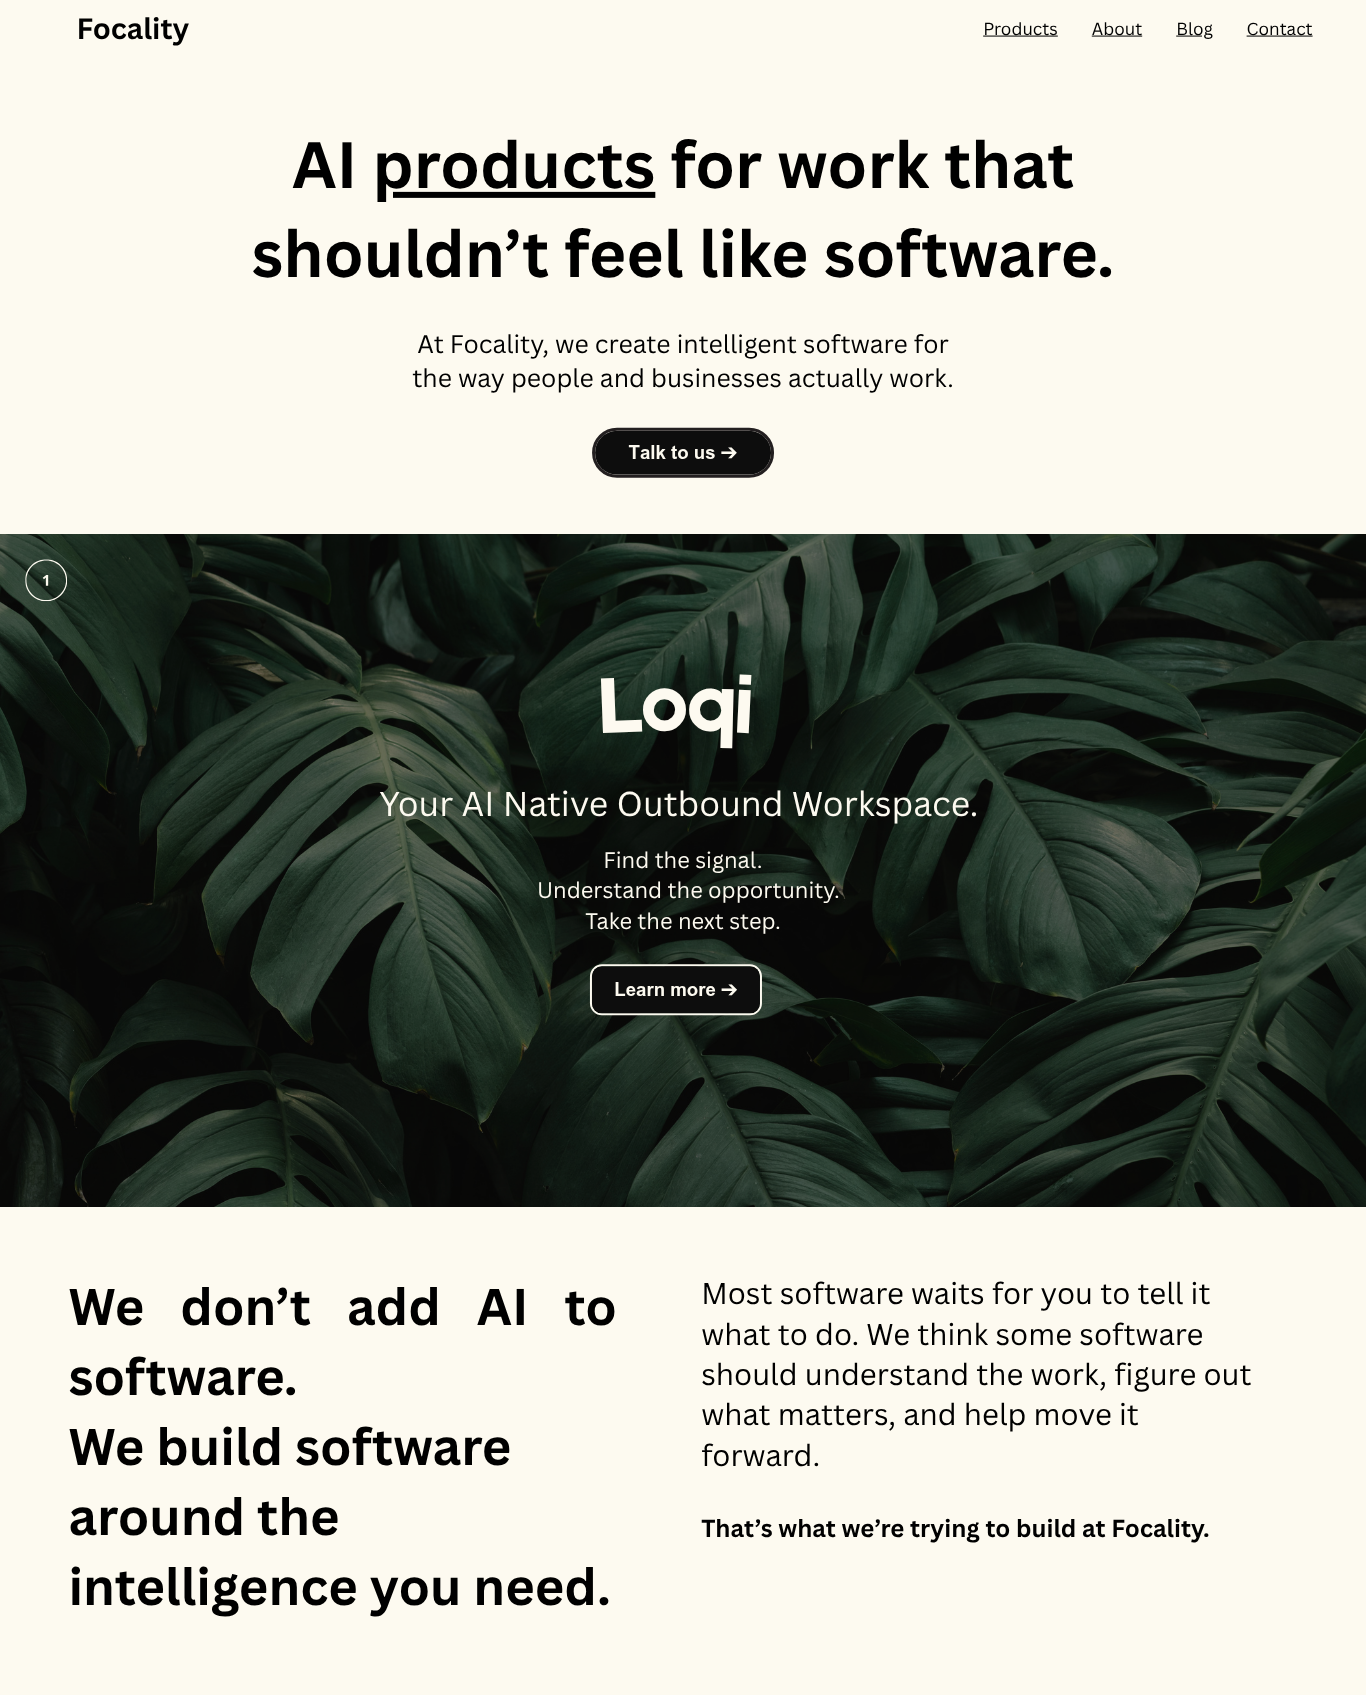
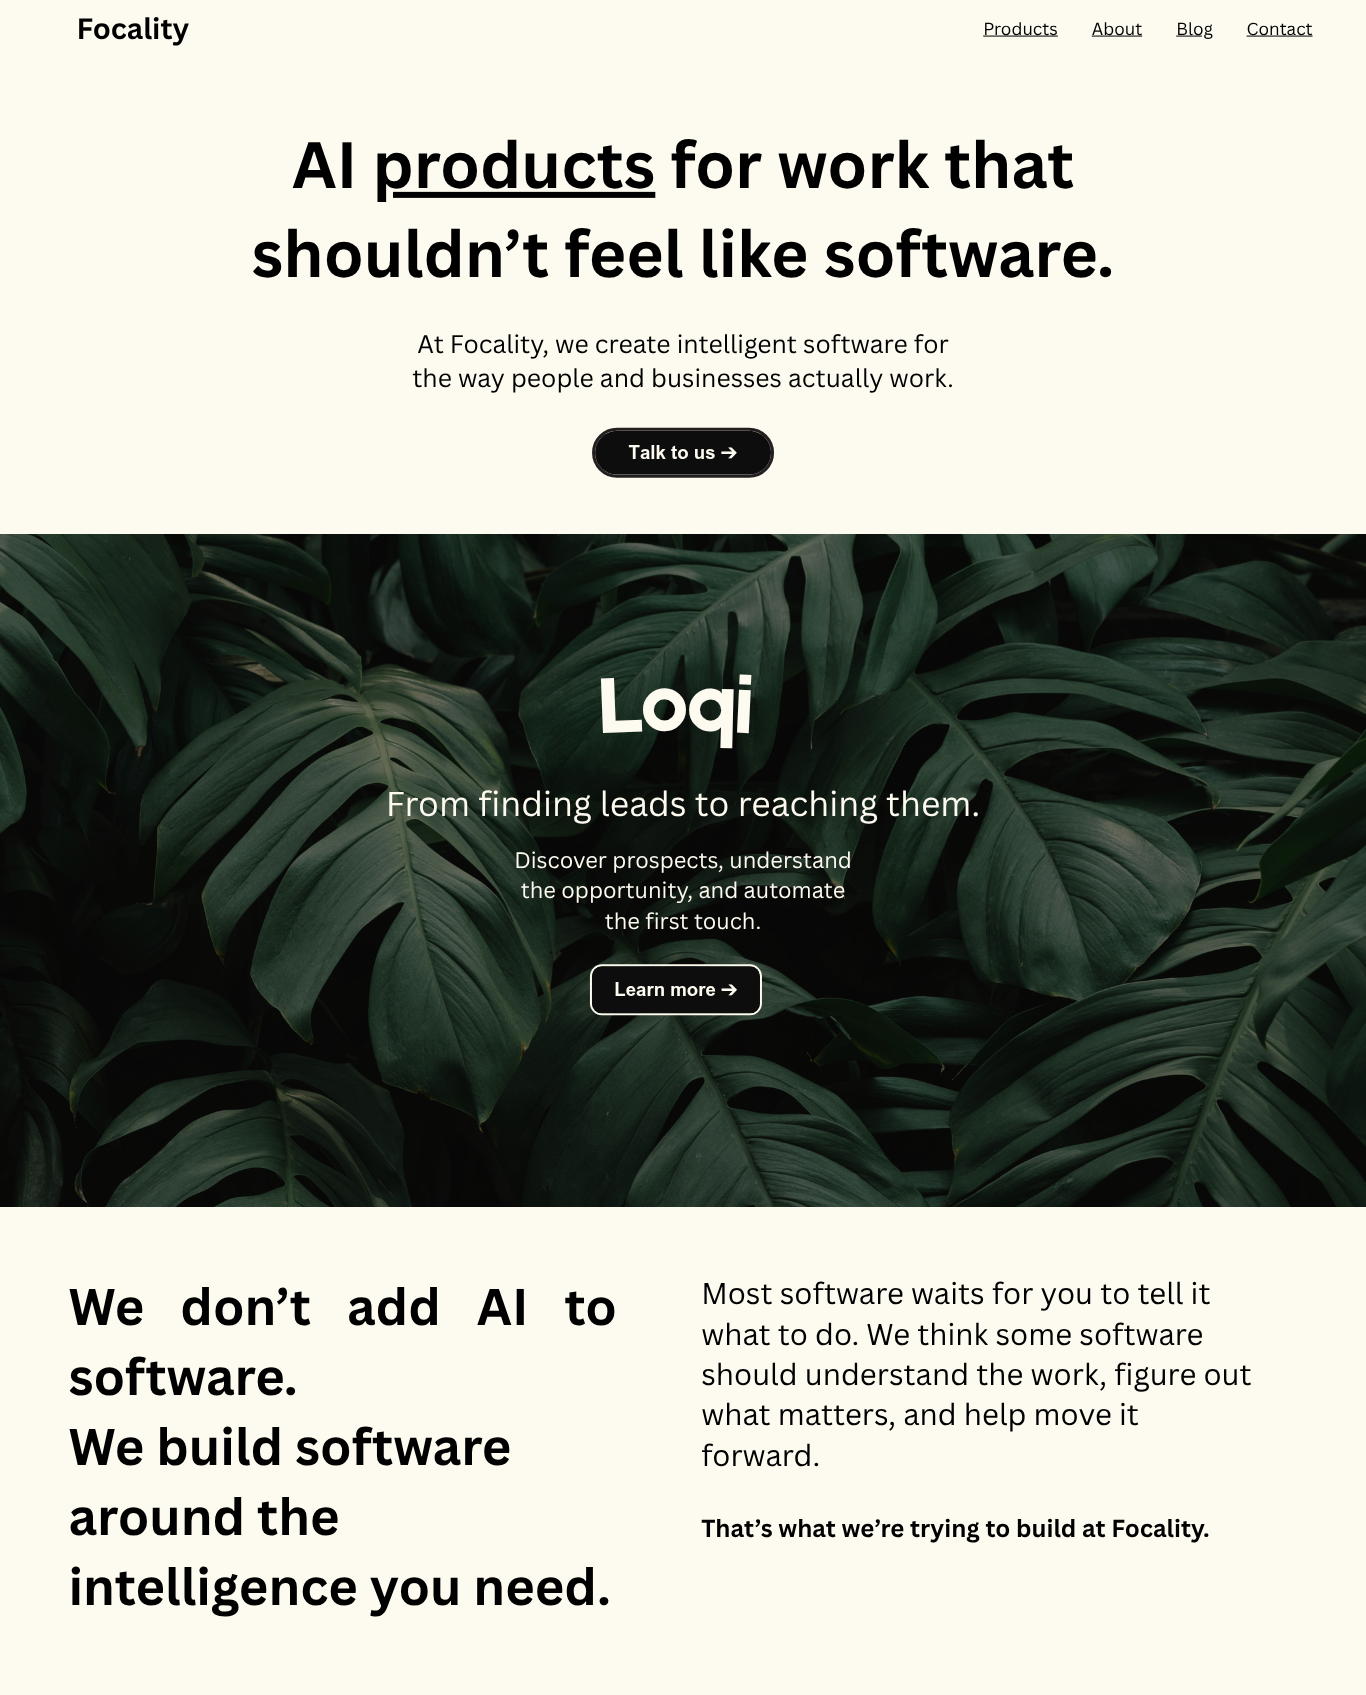
Update Focality product styling and gallery assets

Changed region(s): [[0.2767, 0.4602, 0.7072, 0.5522]]

diff --git a/src/components/Home/ProductGallery.tsx b/src/components/Home/ProductGallery.tsx
@@ -38,7 +38,7 @@ export default function ProductGallery() {
     if (slide === "loqi") {
       return (
         <div className="product-gallery-slide product-gallery-loqi" key={key}>
-          <img className="product-gallery-art" src="/images/loqi/loqi-reference-crop.png" alt="Loqi, an AI native outbound workspace" />
+          <img className="product-gallery-art" src="/images/gallery/focality-loqi-card.jpg" alt="Loqi, an AI native outbound workspace" />
           <a className="loqi-hotspot" href="https://www.tryloqi.com/" aria-label="Learn more about Loqi" />
         </div>
       );
@@ -48,7 +48,6 @@ export default function ProductGallery() {
       return (
           <div className="product-gallery-slide product-gallery-custom" key={key}>
           <img className="product-gallery-background" src="/images/gallery/b-927.jpg" alt="" />
-          <div className="product-gallery-number">2</div>
           <div className="product-gallery-content">
             <h2>Custom intelligence<br />for specific work.</h2>
             <p>We also build custom automations and AI software for companies with problems that need a system of their own.</p>
@@ -61,7 +60,6 @@ export default function ProductGallery() {
     return (
       <div className="product-gallery-slide product-gallery-coming" key={key}>
         <img className="product-gallery-background" src="/images/gallery/img-2317.jpg" alt="" />
-        <div className="product-gallery-number">3</div>
         <div className="product-gallery-content">
           <h2>More products<br />coming soon.</h2>
           <p>We&apos;re working on more software for work that benefits from a better understanding of context.</p>

diff --git a/src/styles/index.css b/src/styles/index.css
@@ -195,7 +195,7 @@
 
   .loqi-reveal { position: relative; width: min(90%, 1280px); margin: clamp(2rem, 5vw, 5rem) auto; overflow: hidden; border: 1px solid rgba(17,17,16,.2); border-radius: 2rem; background: #030e09; box-shadow: 0 18px 45px rgba(17,17,16,.12); line-height: 0; }
   .loqi-reference-art { display: block; width: 100%; height: auto; }
-  .loqi-hotspot { position: absolute; top: 63.5%; left: 43.2%; width: 13.6%; height: 8%; }
+  .loqi-hotspot { position: absolute; top: 63.5%; left: 34%; width: 12%; height: 10%; }
   .product-gallery { width: 100%; padding: 0 0 clamp(2rem, 5vw, 5rem); background: #faf9f5; }
   .product-gallery-stage { position: relative; width: min(90%, 1280px); height: clamp(30rem, 49.27vw, 39.5rem); margin: 0 auto; overflow: hidden; border: 1px solid rgba(17,17,16,.2); border-radius: 2rem; background: #030e09; box-shadow: 0 18px 45px rgba(17,17,16,.12); }
   .product-gallery-track { display: flex; width: 500%; height: 100%; }
